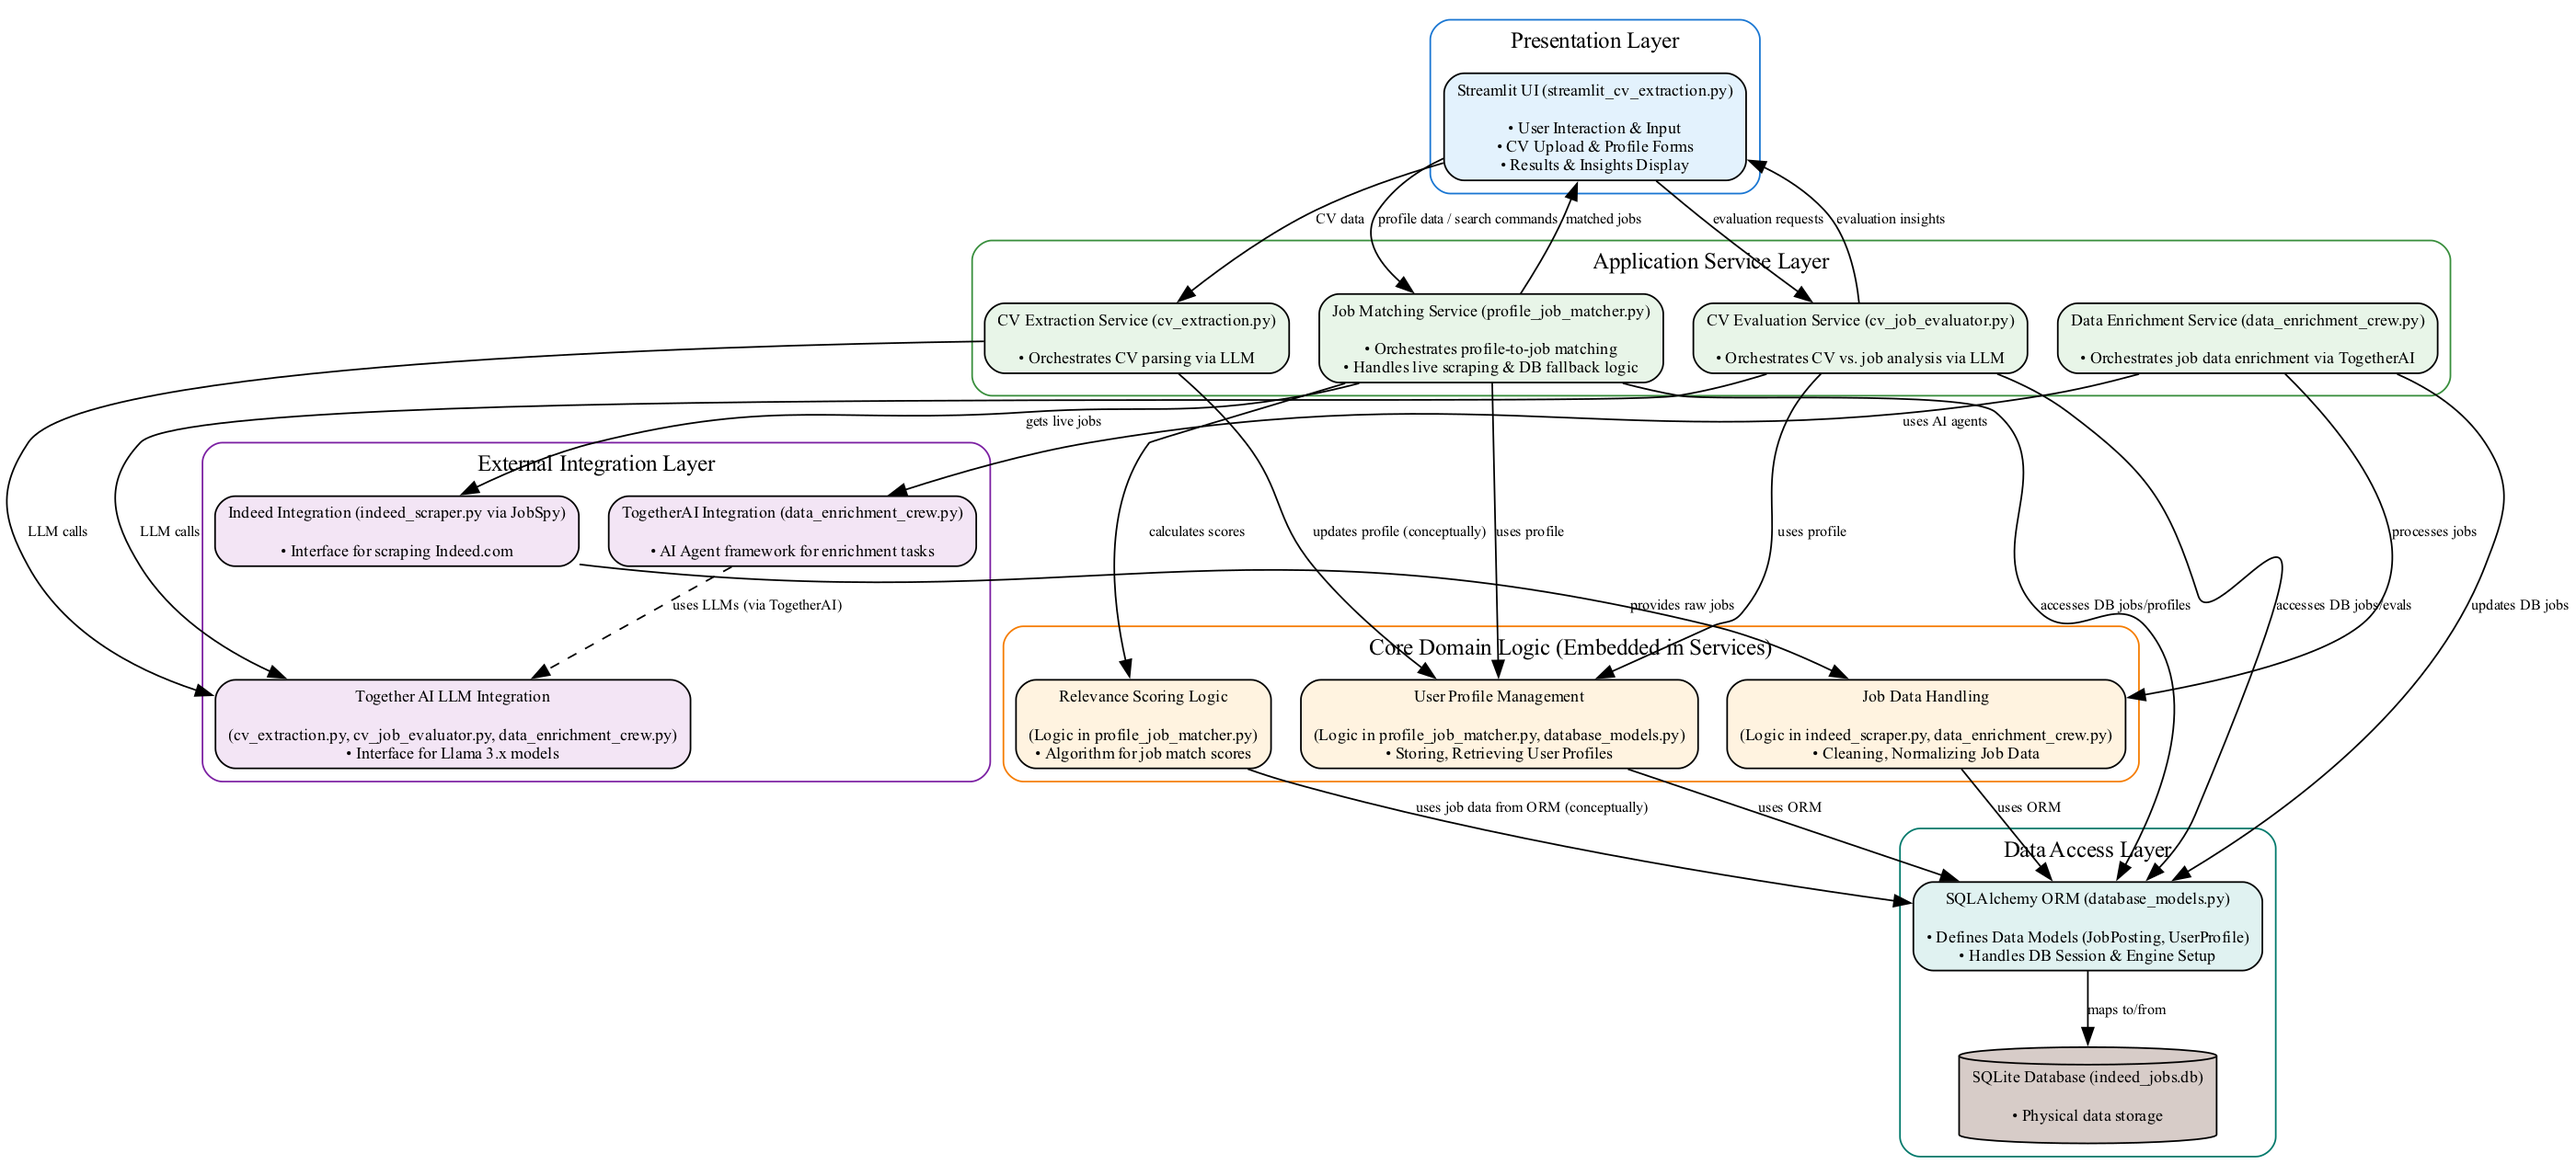
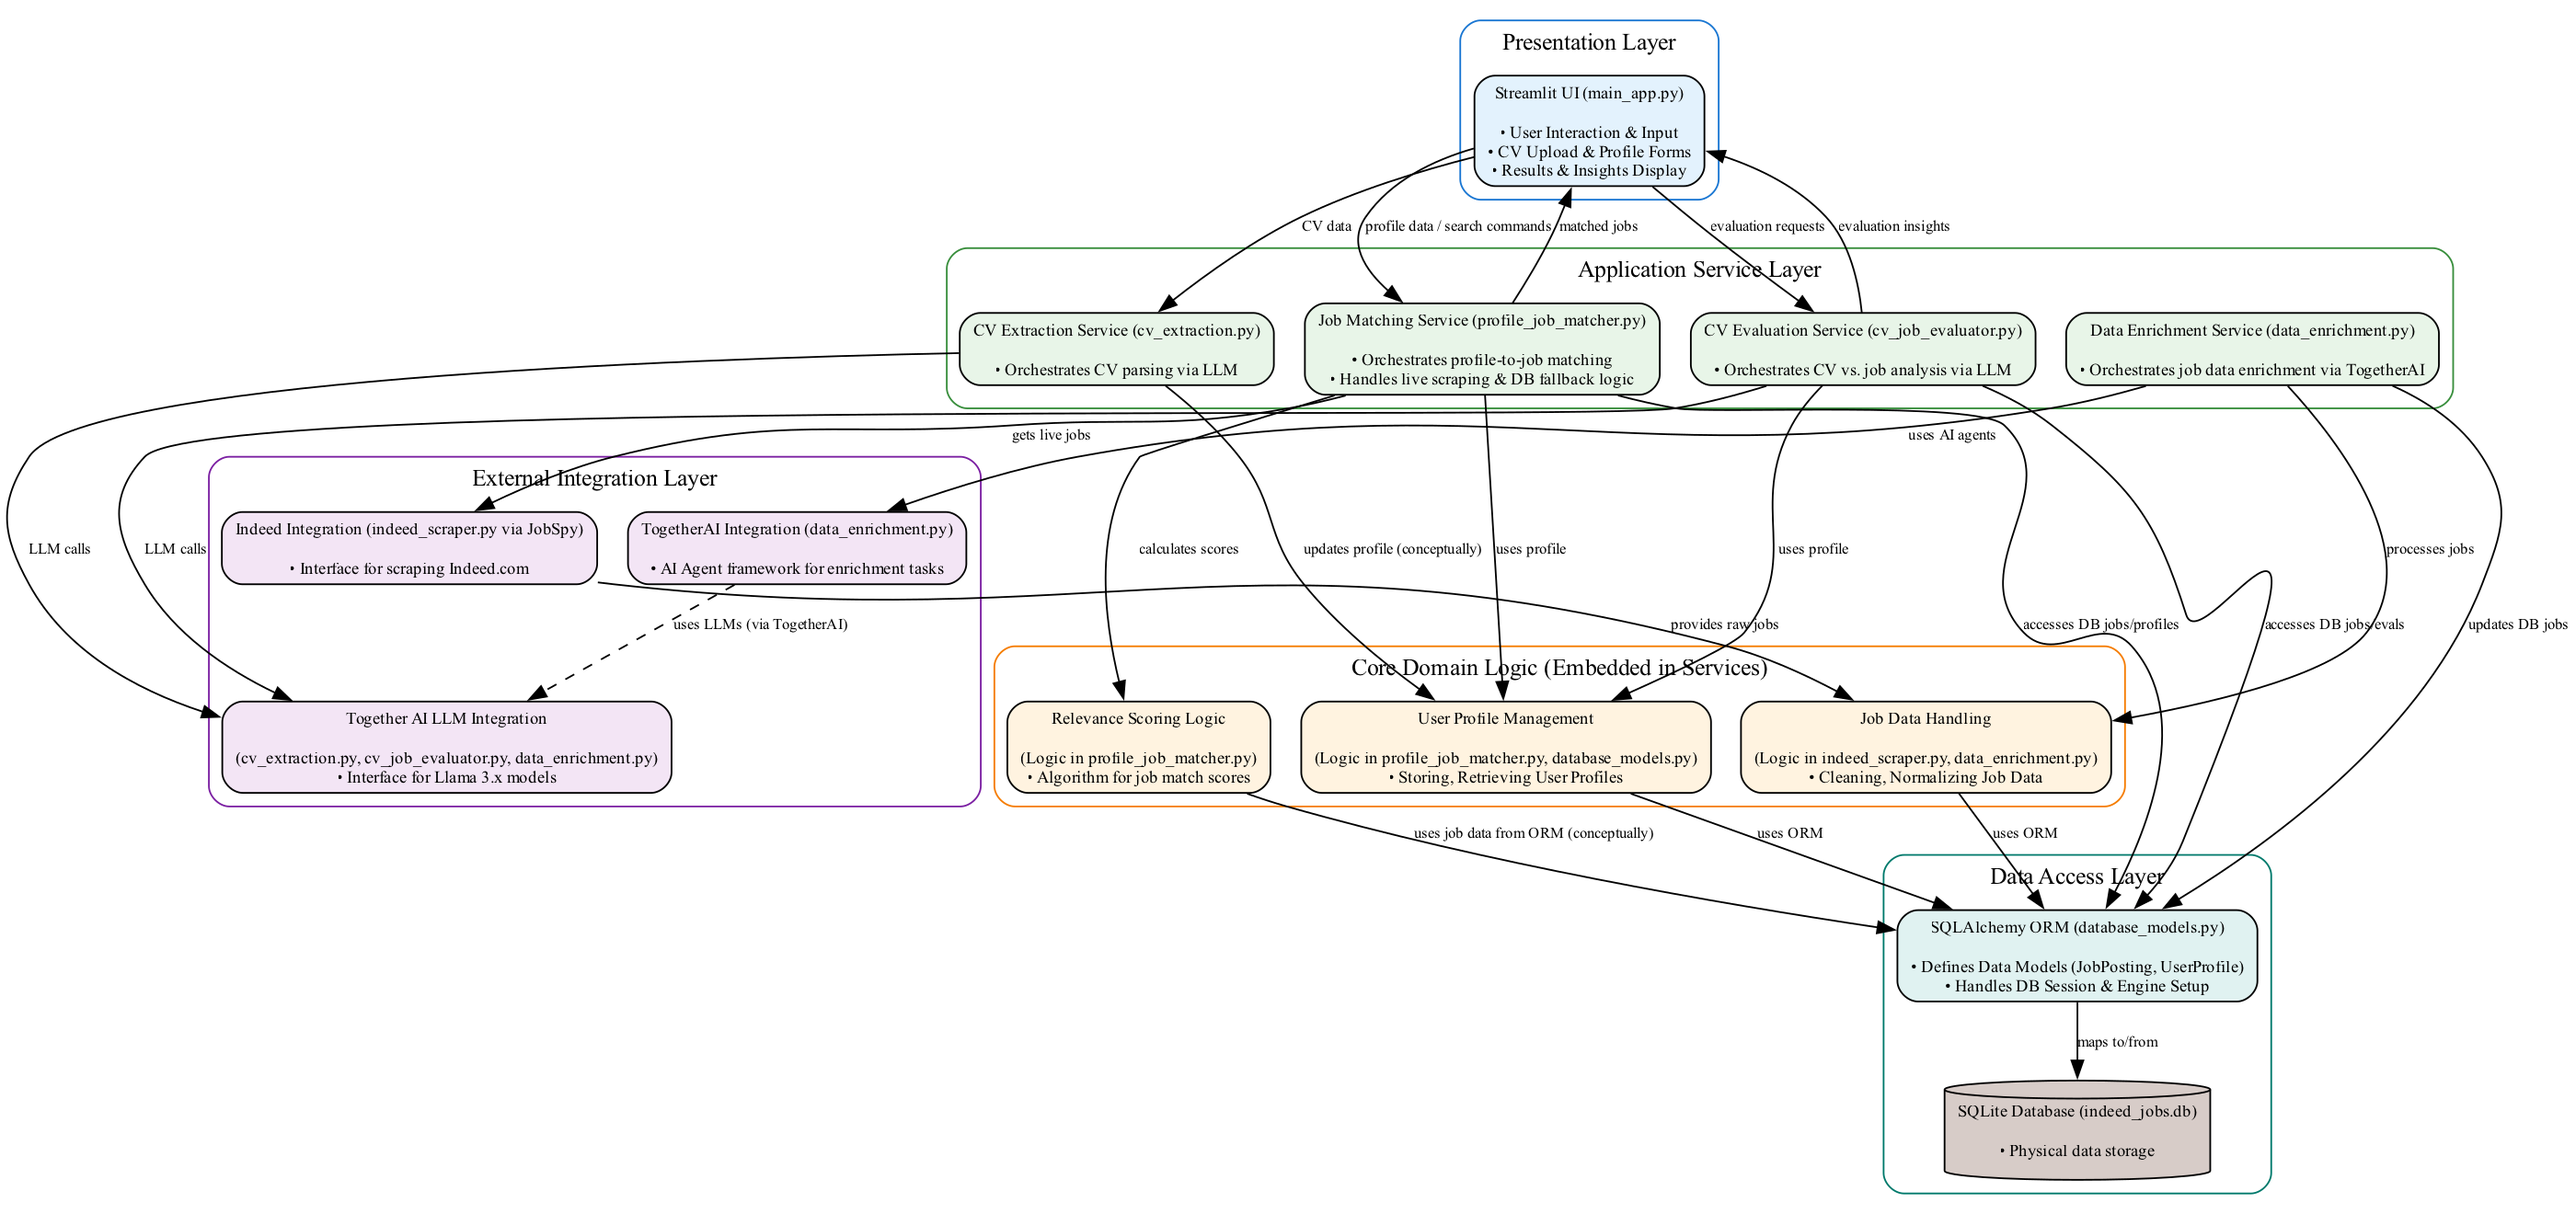
Refactor code structure for improved system architecture viz

diff --git a/src/skillscope/utils/system_architecture.py b/src/skillscope/utils/system_architecture.py
@@ -174,6 +174,30 @@ def create_enhanced_data_flow():
         dot.edge(source, target, label=label)
     
     return dot
+
+def create_enhanced_data_flow():
+    """Create an enhanced data flow diagram with detailed step descriptions"""
+    
+    dot = Digraph(comment='SkillScopeJob - Enhanced Data Flow')
+    dot.attr(rankdir='LR', size='16,10', dpi='300')
+    dot.attr('node', shape='box', style='rounded,filled', fontsize='12', width='2.5', height='1.5')
+    dot.attr('edge', fontsize='10', penwidth='2')
+    
+    # Enhanced step definitions with detailed descriptions
+    steps = [
+        ('upload', 'Upload CV', '#E3F2FD'),
+        ('extract', 'Extract Data', '#F3E5F5'),
+        ('search', 'Search Jobs', '#E8F5E8'),
+        ('enrich', 'Enrich Data', '#FFF3E0'),
+        ('evaluate', 'Evaluate Match', '#FFEBEE'),
+        ('rank', 'Rank Results', '#F1F8E9'),
+        ('display', 'Display Results', '#E0F2F1')
+    ]
+    
+    # Enhanced labels with more detail
+    enhanced_labels = {
+        'upload': '1. Upload CV\n(PDF/DOCX Input)',
+        'extract': '2. AI Extract\n(Skills & Experience)',
         'search': '3. Search Jobs\n(Scrape & Store)',
         'enrich': '4. AI Enhance\n(Company Info)',
         'evaluate': '5. AI Evaluate\n(Match Analysis)',
@@ -632,9 +656,9 @@ def create_file_based_architecture():
     # Admin Utilities Layer
     with dot.subgraph(name='cluster_admin') as c:
         c.attr(label='🔧 Administrative Utilities', style='rounded', color=ADMIN_COLOR, fontcolor=ADMIN_COLOR)
-        c.node('debug_database_py', 'admin_utils/debug_database.py\n\n• Database Debugging & Inspection Tools\n• Data Verification & Cleanup Utilities',
+        c.node('debug_database_py', 'admin/debug_database.py\n\n• Database Debugging & Inspection Tools\n• Data Verification & Cleanup Utilities',
                fillcolor=ADMIN_COLOR + '30', color=ADMIN_COLOR)
-        c.node('admin_streamlit_app_py', 'admin_utils/streamlit_app.py\n\n• Administrative Web Interface\n• Database Management Tools',
+        c.node('admin_app_py', 'src/skillscope/ui/admin_app.py\n\n• Administrative Web Interface\n• Job Scraping Dashboard\n• Data Enrichment Control\n• Database Management Tools',
                fillcolor=ADMIN_COLOR + '30', color=ADMIN_COLOR)
 
     # Configuration & Data Files
@@ -694,7 +718,9 @@ def create_file_based_architecture():
 
     # Admin Utilities Access
     dot.edge('debug_database_py', 'indeed_jobs_db', label='direct database inspection', style='dashed', color=ADMIN_COLOR)
-    dot.edge('admin_streamlit_app_py', 'database_models_py', label='admin interface to data models', style='dashed', color=ADMIN_COLOR)
+    dot.edge('admin_app_py', 'database_models_py', label='admin interface to data models', style='dashed', color=ADMIN_COLOR)
+    dot.edge('admin_app_py', 'indeed_scraper_py', label='scraping control', style='bold', color=ADMIN_COLOR)
+    dot.edge('admin_app_py', 'data_enrichment_py', label='enrichment monitoring', style='bold', color=ADMIN_COLOR)
     
     return dot
 
@@ -1047,10 +1073,96 @@ def create_comprehensive_system_overview():
     
     return dot
 
-def main():
-    """Generate the two specific architecture diagrams"""
+def create_dual_interface_diagram():
+    """Create a diagram showing main_app.py and admin_app.py interfaces"""
     
-    print("🏗 Creating Architecture Diagrams...")
+    dot = Digraph(comment='SkillScopeJob - Dual Interface Architecture')
+    dot.attr(rankdir='TB', size='14,10', dpi='200')
+    dot.attr('node', shape='box', style='rounded,filled', fontsize='10')
+    dot.attr('edge', fontsize='9', penwidth='2')
+    
+    # Color scheme
+    USER_APP_COLOR = '#1565C0'      # Blue for main app
+    ADMIN_APP_COLOR = '#C62828'     # Red for admin app  
+    SHARED_COLOR = '#2E7D32'        # Green for shared components
+    DATABASE_COLOR = '#7B1FA2'      # Purple for database
+    EXTERNAL_COLOR = '#F57C00'      # Orange for external services
+    
+    # User Interface Layer
+    with dot.subgraph(name='cluster_interfaces') as c:
+        c.attr(label='User Interfaces', style='rounded', color='#424242')
+        
+        c.node('main_app', 'main_app.py\n\n👥 End User Interface\n• CV Upload & Profile Creation\n• Job Search & Matching\n• Results Display & Insights\n• CV-Job Evaluation', 
+               fillcolor='#E3F2FD', color=USER_APP_COLOR, penwidth='2')
+        
+        c.node('admin_app', 'admin_app.py\n\n⚙ Administrative Interface\n• Database Management\n• Job Scraping Control\n• Data Enrichment Monitoring\n• System Health & Maintenance', 
+               fillcolor='#FFEBEE', color=ADMIN_APP_COLOR, penwidth='2')
+    
+    # Shared Core Services
+    with dot.subgraph(name='cluster_core') as c:
+        c.attr(label='Shared Core Services', style='rounded', color=SHARED_COLOR)
+        
+        c.node('cv_extraction', 'CV Processing\n(cv_extraction.py)\n\n• PDF/DOCX parsing\n• AI-powered data extraction', 
+               fillcolor='#E8F5E8', color=SHARED_COLOR)
+        
+        c.node('job_scraper', 'Job Scraping\n(indeed_scraper.py)\n\n• Indeed API integration\n• Job data collection', 
+               fillcolor='#E8F5E8', color=SHARED_COLOR)
+        
+        c.node('profile_matcher', 'Profile Matching\n(profile_job_matcher.py)\n\n• User profile management\n• Job-profile matching', 
+               fillcolor='#E8F5E8', color=SHARED_COLOR)
+        
+        c.node('data_enrichment', 'Data Enrichment\n(data_enrichment.py)\n\n• AI-powered enhancement\n• Company information', 
+               fillcolor='#E8F5E8', color=SHARED_COLOR)
+        
+        c.node('cv_evaluator', 'CV Evaluation\n(cv_job_evaluator.py)\n\n• AI-driven analysis\n• Match scoring', 
+               fillcolor='#E8F5E8', color=SHARED_COLOR)
+    
+    # Database Layer
+    dot.node('database', 'SQLite Database\n(indeed_jobs.db)\n\n• Job postings storage\n• User profiles\n• Evaluation results', 
+             fillcolor='#F3E5F5', color=DATABASE_COLOR, penwidth='2')
+    
+    # External Services
+    with dot.subgraph(name='cluster_external') as c:
+        c.attr(label='External Services', style='rounded', color=EXTERNAL_COLOR)
+        
+        c.node('indeed_api', 'Indeed Jobs\n\n• Job listings\n• Company data', 
+               fillcolor='#FFF3E0', color=EXTERNAL_COLOR, shape='ellipse')
+        
+        c.node('together_ai', 'Together AI\n\n• LLM processing\n• Text analysis', 
+               fillcolor='#FFF3E0', color=EXTERNAL_COLOR, shape='ellipse')
+    
+    # Main App connections
+    dot.edge('main_app', 'cv_extraction', label='CV upload', color=USER_APP_COLOR)
+    dot.edge('main_app', 'profile_matcher', label='profile search', color=USER_APP_COLOR)
+    dot.edge('main_app', 'cv_evaluator', label='evaluation request', color=USER_APP_COLOR)
+    
+    # Admin App connections
+    dot.edge('admin_app', 'job_scraper', label='scraping control', color=ADMIN_APP_COLOR, style='bold')
+    dot.edge('admin_app', 'data_enrichment', label='enrichment monitoring', color=ADMIN_APP_COLOR, style='bold')
+    dot.edge('admin_app', 'database', label='direct DB access', color=ADMIN_APP_COLOR, style='bold')
+    
+    # Shared service connections
+    dot.edge('job_scraper', 'indeed_api', label='API calls', color=EXTERNAL_COLOR, style='dashed')
+    dot.edge('cv_extraction', 'together_ai', label='AI processing', color=EXTERNAL_COLOR, style='dashed')
+    dot.edge('data_enrichment', 'together_ai', label='AI enhancement', color=EXTERNAL_COLOR, style='dashed')
+    dot.edge('cv_evaluator', 'together_ai', label='AI evaluation', color=EXTERNAL_COLOR, style='dashed')
+    
+    # Database connections
+    dot.edge('job_scraper', 'database', label='store jobs', color=DATABASE_COLOR)
+    dot.edge('profile_matcher', 'database', label='query/store', color=DATABASE_COLOR)
+    dot.edge('data_enrichment', 'database', label='update data', color=DATABASE_COLOR)
+    dot.edge('cv_evaluator', 'database', label='store results', color=DATABASE_COLOR)
+    
+    # Results flow
+    dot.edge('profile_matcher', 'main_app', label='job matches', color=USER_APP_COLOR)
+    dot.edge('cv_evaluator', 'main_app', label='evaluation results', color=USER_APP_COLOR)
+    
+    return dot
+
+def main():
+    """Generate all architecture diagrams for comprehensive documentation"""
+    
+    print("🏗 Creating Complete Architecture Documentation...")
     
     # Check Graphviz availability first
     has_graphviz = check_graphviz_installation()
@@ -1060,25 +1172,63 @@ def main():
     # Get assets/images path for reporting
     assets_images = get_assets_images_path()
     
-    # 1. Component Interaction (matches your first attachment)
+    # Core diagrams (already implemented)
+    print("\n1. 📊 Core Architecture Diagrams")
     components = create_component_interaction()
     safe_render(components, 'skillscope_component_interaction', 'png')
     
-    # 2. Layered Architecture (matches your second attachment)
     layered = create_layered_architecture()
     safe_render(layered, 'skillscope_layered_architecture', 'png')
     
-    print("\n📊 Architecture diagrams processed!")
+    # New dual interface diagram
+    print("\n2. 🎛 Dual Interface Diagram")
+    dual_interface = create_dual_interface_diagram()
+    safe_render(dual_interface, 'skillscope_dual_interface', 'png')
+    
+    # Additional architectural views
+    print("\n3. 📈 Additional Architecture Views")
+    
+    # Data flow diagram
+    data_flow = create_enhanced_data_flow()
+    safe_render(data_flow, 'skillscope_data_flow', 'png')
+    
+    # File-based architecture
+    file_arch = create_file_based_architecture()
+    safe_render(file_arch, 'skillscope_file_architecture', 'png')
+    
+    # Technology stack
+    tech_stack = create_technology_stack()
+    safe_render(tech_stack, 'skillscope_technology_stack', 'png')
+    
+    # Module dependencies
+    dependencies = create_module_dependency_diagram()
+    safe_render(dependencies, 'skillscope_module_dependencies', 'png')
+    
+    # User journey flow
+    user_journey = create_user_journey_flow()
+    safe_render(user_journey, 'skillscope_user_journey', 'png')
+    
+    # Comprehensive system overview
+    system_overview = create_comprehensive_system_overview()
+    safe_render(system_overview, 'skillscope_system_overview', 'png')
+    
+    print("\n📊 Architecture documentation completed!")
     
     if has_graphviz:
-        print(f"\nDiagrams created in {assets_images}:")
+        print(f"\n✅ All diagrams generated in {assets_images}:")
         print("  1. skillscope_component_interaction.png")
         print("  2. skillscope_layered_architecture.png")
+        print("  3. skillscope_dual_interface.png (NEW)")
+        print("  4. skillscope_data_flow.png")
+        print("  5. skillscope_file_architecture.png")
+        print("  6. skillscope_technology_stack.png")
+        print("  7. skillscope_module_dependencies.png")
+        print("  8. skillscope_user_journey.png")
+        print("  9. skillscope_system_overview.png")
     else:
-        print(f"\nDOT files created in {assets_images} (install Graphviz for PNG generation):")
-        print("  1. skillscope_component_interaction.dot")
-        print("  2. skillscope_layered_architecture.dot")
-        print("\n🌐 View these files online at: https://dreampuf.github.io/GraphvizOnline/")
+        print(f"\n💾 All DOT files generated in {assets_images}:")
+        print("     Install Graphviz to generate PNG files automatically")
+        print("\n🌐 View DOT files online at: https://dreampuf.github.io/GraphvizOnline/")
 
 if __name__ == "__main__":
     main()
